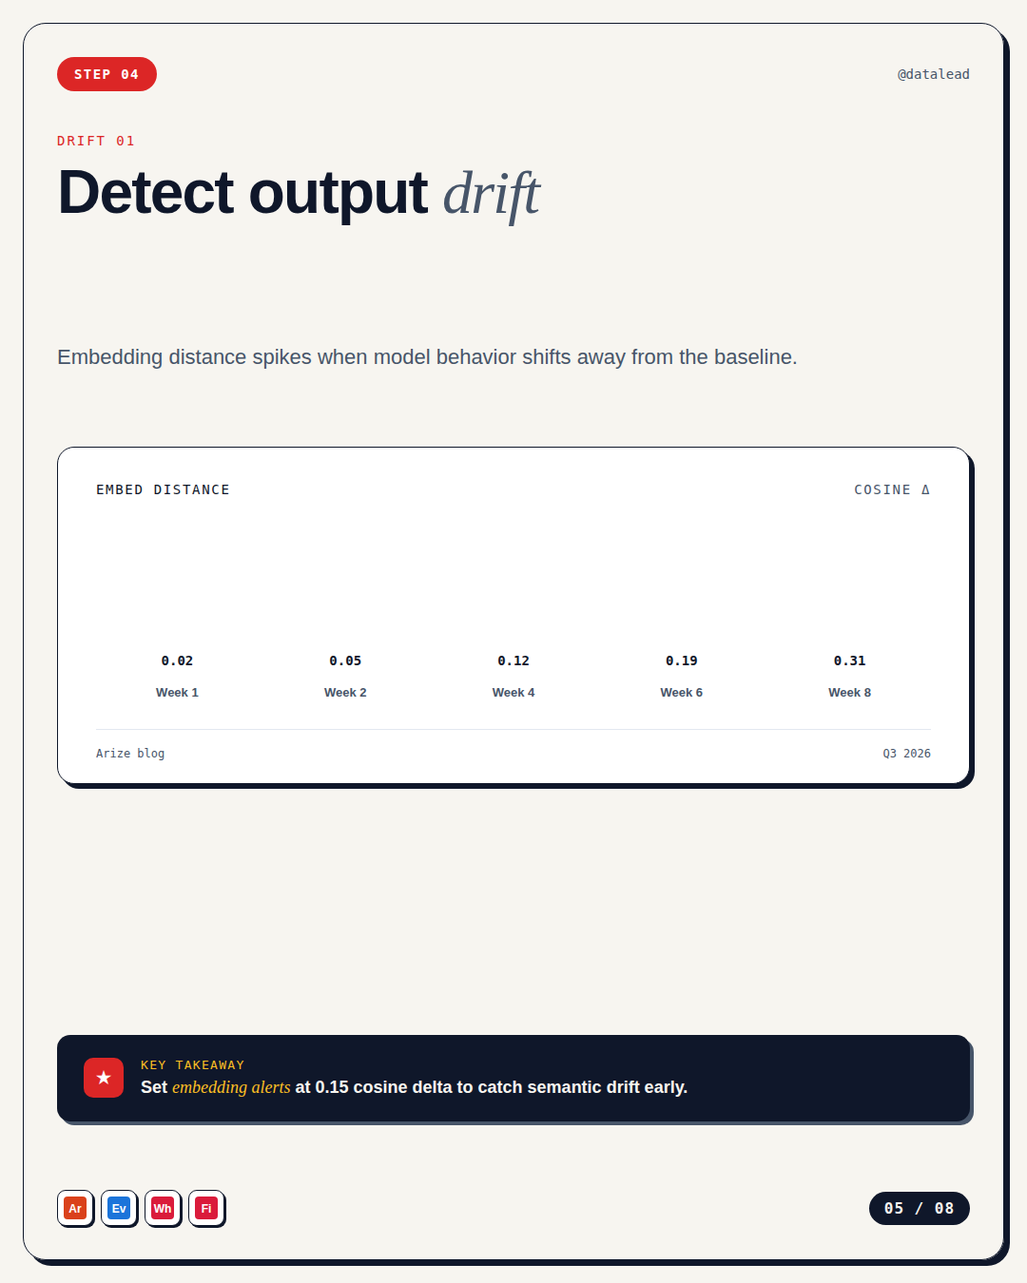
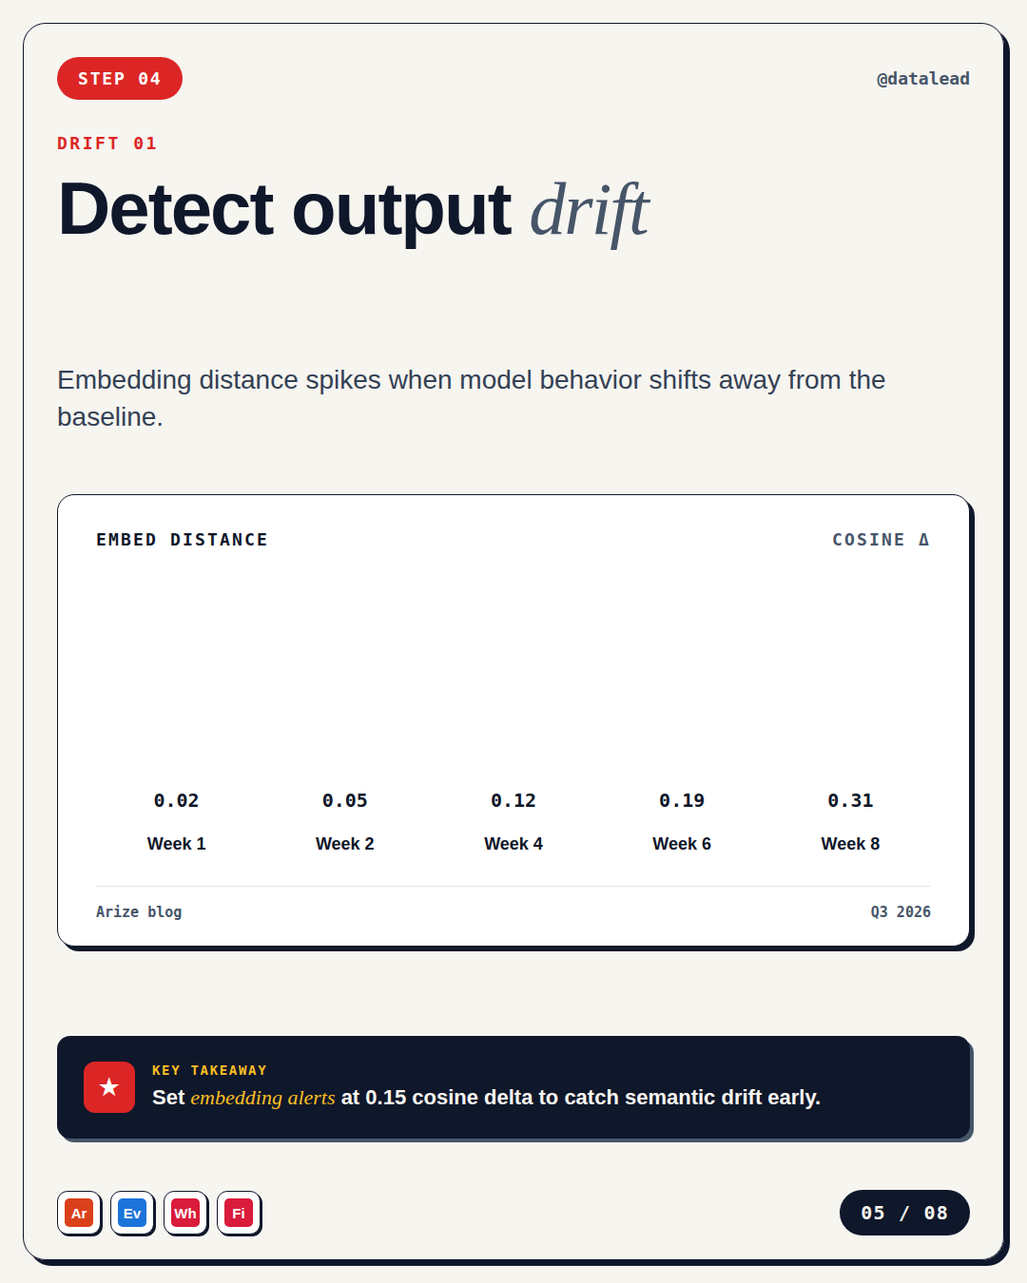
fix(edu-bright): bump body text, tighten dead space, larger pagination
Address quality regression on edu-bright family — body subtitle 22→28px,
title 64→78px, insight text 18→22px, pagination 16→20px in larger pill,
chart bars 200→300px with 18-20px labels, table cells 15→18-20px, flow
nodes 18→22px with min-height. Insight card pinned at top:1090 to close
the ~290px gap between content card and footer.

Re-renders existing 5 carousels via new tools/rerender.mjs (skips Kimi,
re-composes specs against updated templates).

https://claude.ai/code/session_01BDmfQ9NTgAVzWWN8wyMc4W

diff --git a/_extracted/carousel-factory/layouts/body-edu-bright-chart/template.html b/_extracted/carousel-factory/layouts/body-edu-bright-chart/template.html
@@ -6,36 +6,35 @@
 html,body{width:1080px;height:1350px;overflow:hidden;background:#f7f5f0;font-family:"Inter",sans-serif;color:#0f172a;-webkit-font-smoothing:antialiased}
 .outline{position:absolute;inset:24px;border:1.5px solid #0f172a;border-radius:24px;pointer-events:none;z-index:10;box-shadow:6px 6px 0 #0f172a}
 .top-row{position:absolute;top:60px;left:60px;right:60px;display:flex;justify-content:space-between;align-items:center}
-.num-pill{display:inline-flex;align-items:center;gap:10px;padding:10px 18px;background:#dc2626;color:#ffffff;border-radius:50px;font-family:"JetBrains Mono",monospace;font-size:14px;font-weight:700;letter-spacing:0.1em;text-transform:uppercase}
-.handle{font-family:"JetBrains Mono",monospace;font-size:14px;color:#475569;font-weight:500}
-.section-label{position:absolute;top:140px;left:60px;font-family:"JetBrains Mono",monospace;font-size:14px;color:#dc2626;letter-spacing:0.14em;text-transform:uppercase}
-.title{position:absolute;top:170px;left:60px;right:60px;font-size:64px;font-weight:900;line-height:1.0;letter-spacing:-1.8px;color:#0f172a;margin-bottom:12px}
+.num-pill{display:inline-flex;align-items:center;gap:10px;padding:12px 22px;background:#dc2626;color:#ffffff;border-radius:50px;font-family:"JetBrains Mono",monospace;font-size:18px;font-weight:700;letter-spacing:0.1em;text-transform:uppercase}
+.handle{font-family:"JetBrains Mono",monospace;font-size:18px;color:#475569;font-weight:600}
+.section-label{position:absolute;top:140px;left:60px;font-family:"JetBrains Mono",monospace;font-size:18px;color:#dc2626;letter-spacing:0.14em;text-transform:uppercase;font-weight:700}
+.title{position:absolute;top:180px;left:60px;right:60px;font-size:78px;font-weight:900;line-height:1.02;letter-spacing:-2px;color:#0f172a}
 .title em{font-family:"Fraunces",serif;font-style:italic;font-weight:400;color:#475569}
-.subtitle{position:absolute;top:360px;left:60px;right:60px;font-size:22px;color:#475569;line-height:1.45}
-/* Bar chart card */
-.chart-card{position:absolute;top:470px;left:60px;right:60px;padding:36px 40px 24px;background:#ffffff;border:1.5px solid #0f172a;border-radius:18px;box-shadow:5px 5px 0 #0f172a}
-.chart-card .ch-eyebrow{font-family:"JetBrains Mono",monospace;font-size:14px;color:#0f172a;letter-spacing:0.12em;text-transform:uppercase;margin-bottom:14px;display:flex;justify-content:space-between}
-.chart-card .ch-eyebrow .yax{color:#475569;font-weight:500}
-.chart-card .ch-bars{display:flex;align-items:flex-end;justify-content:space-between;gap:18px;height:200px;margin-bottom:30px;padding:0 6px}
-.chart-card .ch-bar-col{flex:1;display:flex;flex-direction:column;align-items:center;gap:8px}
-.chart-card .ch-bar{width:100%;background:#0f172a;border-radius:8px 8px 0 0;position:relative}
+.subtitle{position:absolute;top:380px;left:60px;right:60px;font-size:28px;color:#334155;line-height:1.4;font-weight:500;max-width:920px}
+.chart-card{position:absolute;top:520px;left:60px;right:60px;padding:36px 40px 26px;background:#ffffff;border:1.5px solid #0f172a;border-radius:18px;box-shadow:5px 5px 0 #0f172a}
+.chart-card .ch-eyebrow{font-family:"JetBrains Mono",monospace;font-size:18px;color:#0f172a;letter-spacing:0.12em;text-transform:uppercase;margin-bottom:22px;display:flex;justify-content:space-between;font-weight:700}
+.chart-card .ch-eyebrow .yax{color:#475569;font-weight:600}
+.chart-card .ch-bars{display:flex;align-items:flex-end;justify-content:space-between;gap:20px;height:300px;margin-bottom:32px;padding:24px 6px 0}
+.chart-card .ch-bar-col{flex:1;display:flex;flex-direction:column;align-items:center;gap:14px}
+.chart-card .ch-bar{width:100%;background:#0f172a;border-radius:10px 10px 0 0;position:relative}
 .chart-card .ch-bar.high{background:#dc2626}
 .chart-card .ch-bar.med{background:#fbbf24}
 .chart-card .ch-bar.lo{background:#10b981}
-.chart-card .ch-bar .v{position:absolute;top:-26px;left:0;right:0;text-align:center;font-family:"JetBrains Mono",monospace;font-size:14px;color:#0f172a;font-weight:700}
-.chart-card .ch-bar-lbl{font-size:13px;color:#475569;font-weight:600;text-align:center;line-height:1.2}
-.chart-card .ch-foot{display:flex;justify-content:space-between;font-family:"JetBrains Mono",monospace;font-size:12px;color:#475569;padding-top:18px;border-top:1px solid #e2e8f0}
-.insight-card{position:absolute;bottom:170px;left:60px;right:60px;padding:24px 28px;background:#0f172a;color:#f7f5f0;border-radius:14px;display:flex;align-items:center;gap:18px;box-shadow:4px 4px 0 #475569}
-.insight-card .star{width:42px;height:42px;border-radius:10px;background:#dc2626;display:flex;align-items:center;justify-content:center;color:#fff;font-size:18px;font-weight:900;flex-shrink:0}
+.chart-card .ch-bar .v{position:absolute;top:-34px;left:0;right:0;text-align:center;font-family:"JetBrains Mono",monospace;font-size:20px;color:#0f172a;font-weight:800}
+.chart-card .ch-bar-lbl{font-size:18px;color:#0f172a;font-weight:700;text-align:center;line-height:1.2}
+.chart-card .ch-foot{display:flex;justify-content:space-between;font-family:"JetBrains Mono",monospace;font-size:15px;color:#475569;padding-top:18px;border-top:1px solid #e2e8f0;font-weight:600}
+.insight-card{position:absolute;top:1090px;left:60px;right:60px;padding:24px 28px;background:#0f172a;color:#f7f5f0;border-radius:14px;display:flex;align-items:center;gap:18px;box-shadow:4px 4px 0 #475569;height:108px}
+.insight-card .star{width:54px;height:54px;border-radius:12px;background:#dc2626;display:flex;align-items:center;justify-content:center;color:#fff;font-size:24px;font-weight:900;flex-shrink:0}
 .insight-card .info{flex:1}
-.insight-card .info .ck{font-family:"JetBrains Mono",monospace;font-size:13px;color:#fbbf24;letter-spacing:0.1em;text-transform:uppercase;margin-bottom:4px}
-.insight-card .info .ct{font-size:18px;font-weight:600;line-height:1.35;color:#f7f5f0}
+.insight-card .info .ck{font-family:"JetBrains Mono",monospace;font-size:14px;color:#fbbf24;letter-spacing:0.12em;text-transform:uppercase;margin-bottom:6px;font-weight:700}
+.insight-card .info .ct{font-size:22px;font-weight:600;line-height:1.32;color:#f7f5f0}
 .insight-card .info .ct em{font-family:"Fraunces",serif;font-style:italic;font-weight:400;color:#fbbf24}
-.bottom-row{position:absolute;bottom:60px;left:60px;right:60px;display:flex;justify-content:space-between;align-items:center}
-.bottom-row .chips{display:flex;gap:8px}
-.bottom-row .chips .chip{width:38px;height:38px;border-radius:9px;background:#ffffff;border:1.5px solid #0f172a;display:flex;align-items:center;justify-content:center;padding:6px;box-shadow:2px 2px 0 #0f172a}
+.bottom-row{position:absolute;bottom:50px;left:60px;right:60px;display:flex;justify-content:space-between;align-items:center}
+.bottom-row .chips{display:flex;gap:10px}
+.bottom-row .chips .chip{width:46px;height:46px;border-radius:11px;background:#ffffff;border:1.5px solid #0f172a;display:flex;align-items:center;justify-content:center;padding:7px;box-shadow:2px 2px 0 #0f172a}
 .bottom-row .chips .chip svg{width:100%;height:100%}
-.bottom-row .pg{padding:8px 16px;background:#0f172a;color:#f7f5f0;border-radius:50px;font-family:"JetBrains Mono",monospace;font-size:16px;font-weight:600;letter-spacing:0.06em}
+.bottom-row .pg{padding:12px 22px;background:#0f172a;color:#f7f5f0;border-radius:50px;font-family:"JetBrains Mono",monospace;font-size:20px;font-weight:700;letter-spacing:0.06em}
 </style></head>
 <body>
 <div class="outline"></div>
@@ -46,11 +45,11 @@ html,body{width:1080px;height:1350px;overflow:hidden;background:#f7f5f0;font-fam
 <div class="chart-card">
   <div class="ch-eyebrow"><span>{{chartTitle}}</span><span class="yax">{{chartYAxis}}</span></div>
   <div class="ch-bars">
-    <div class="ch-bar-col"><div class="ch-bar" style="height:30%"><div class="v">{{bar1V}}</div></div><div class="ch-bar-lbl">{{bar1L}}</div></div>
-    <div class="ch-bar-col"><div class="ch-bar lo" style="height:50%"><div class="v">{{bar2V}}</div></div><div class="ch-bar-lbl">{{bar2L}}</div></div>
-    <div class="ch-bar-col"><div class="ch-bar med" style="height:72%"><div class="v">{{bar3V}}</div></div><div class="ch-bar-lbl">{{bar3L}}</div></div>
-    <div class="ch-bar-col"><div class="ch-bar high" style="height:92%"><div class="v">{{bar4V}}</div></div><div class="ch-bar-lbl">{{bar4L}}</div></div>
-    <div class="ch-bar-col"><div class="ch-bar" style="height:42%"><div class="v">{{bar5V}}</div></div><div class="ch-bar-lbl">{{bar5L}}</div></div>
+    <div class="ch-bar-col"><div class="ch-bar" style="height:38%"><div class="v">{{bar1V}}</div></div><div class="ch-bar-lbl">{{bar1L}}</div></div>
+    <div class="ch-bar-col"><div class="ch-bar lo" style="height:56%"><div class="v">{{bar2V}}</div></div><div class="ch-bar-lbl">{{bar2L}}</div></div>
+    <div class="ch-bar-col"><div class="ch-bar med" style="height:74%"><div class="v">{{bar3V}}</div></div><div class="ch-bar-lbl">{{bar3L}}</div></div>
+    <div class="ch-bar-col"><div class="ch-bar high" style="height:94%"><div class="v">{{bar4V}}</div></div><div class="ch-bar-lbl">{{bar4L}}</div></div>
+    <div class="ch-bar-col"><div class="ch-bar" style="height:48%"><div class="v">{{bar5V}}</div></div><div class="ch-bar-lbl">{{bar5L}}</div></div>
   </div>
   <div class="ch-foot"><span>{{chartSource}}</span><span>{{chartPeriod}}</span></div>
 </div>

diff --git a/_extracted/carousel-factory/layouts/body-edu-bright-flow/template.html b/_extracted/carousel-factory/layouts/body-edu-bright-flow/template.html
@@ -6,44 +6,43 @@
 html,body{width:1080px;height:1350px;overflow:hidden;background:#f7f5f0;font-family:"Inter",sans-serif;color:#0f172a;-webkit-font-smoothing:antialiased}
 .outline{position:absolute;inset:24px;border:1.5px solid #0f172a;border-radius:24px;pointer-events:none;z-index:10;box-shadow:6px 6px 0 #0f172a}
 .top-row{position:absolute;top:60px;left:60px;right:60px;display:flex;justify-content:space-between;align-items:center}
-.num-pill{display:inline-flex;align-items:center;gap:10px;padding:10px 18px;background:#dc2626;color:#ffffff;border-radius:50px;font-family:"JetBrains Mono",monospace;font-size:14px;font-weight:700;letter-spacing:0.1em;text-transform:uppercase}
-.handle{font-family:"JetBrains Mono",monospace;font-size:14px;color:#475569;font-weight:500}
-.section-label{position:absolute;top:140px;left:60px;font-family:"JetBrains Mono",monospace;font-size:14px;color:#dc2626;letter-spacing:0.14em;text-transform:uppercase}
-.title{position:absolute;top:170px;left:60px;right:60px;font-size:64px;font-weight:900;line-height:1.0;letter-spacing:-1.8px;color:#0f172a;margin-bottom:12px}
+.num-pill{display:inline-flex;align-items:center;gap:10px;padding:12px 22px;background:#dc2626;color:#ffffff;border-radius:50px;font-family:"JetBrains Mono",monospace;font-size:18px;font-weight:700;letter-spacing:0.1em;text-transform:uppercase}
+.handle{font-family:"JetBrains Mono",monospace;font-size:18px;color:#475569;font-weight:600}
+.section-label{position:absolute;top:140px;left:60px;font-family:"JetBrains Mono",monospace;font-size:18px;color:#dc2626;letter-spacing:0.14em;text-transform:uppercase;font-weight:700}
+.title{position:absolute;top:180px;left:60px;right:60px;font-size:78px;font-weight:900;line-height:1.02;letter-spacing:-2px;color:#0f172a}
 .title em{font-family:"Fraunces",serif;font-style:italic;font-weight:400;color:#475569}
-.subtitle{position:absolute;top:360px;left:60px;right:60px;font-size:22px;color:#475569;line-height:1.45}
-/* Architecture flow diagram */
-.flow-card{position:absolute;top:470px;left:60px;right:60px;padding:38px 36px;background:#ffffff;border:1.5px solid #0f172a;border-radius:18px;box-shadow:5px 5px 0 #0f172a}
-.flow-card .fc-eyebrow{font-family:"JetBrains Mono",monospace;font-size:14px;color:#0f172a;letter-spacing:0.12em;text-transform:uppercase;margin-bottom:24px}
-.flow-row{display:flex;align-items:center;justify-content:space-between;gap:0;margin-bottom:24px}
-.node{flex:1;display:flex;flex-direction:column;align-items:center;text-align:center;padding:16px 14px;background:#f7f5f0;border:1.5px solid #0f172a;border-radius:14px;box-shadow:3px 3px 0 #0f172a}
+.subtitle{position:absolute;top:380px;left:60px;right:60px;font-size:28px;color:#334155;line-height:1.4;font-weight:500;max-width:920px}
+.flow-card{position:absolute;top:520px;left:60px;right:60px;padding:36px 32px 32px;background:#ffffff;border:1.5px solid #0f172a;border-radius:18px;box-shadow:5px 5px 0 #0f172a}
+.flow-card .fc-eyebrow{font-family:"JetBrains Mono",monospace;font-size:18px;color:#0f172a;letter-spacing:0.12em;text-transform:uppercase;margin-bottom:28px;font-weight:700}
+.flow-row{display:flex;align-items:stretch;justify-content:space-between;gap:0;margin-bottom:26px}
+.node{flex:1;display:flex;flex-direction:column;align-items:center;text-align:center;padding:22px 16px;background:#f7f5f0;border:1.5px solid #0f172a;border-radius:14px;box-shadow:3px 3px 0 #0f172a;min-height:200px;justify-content:center}
 .node.alt{background:#dc2626;color:#ffffff}
 .node.alt .nm{color:#ffffff}
 .node.alt .ns{color:#fff5e0}
 .node.end{background:#0f172a;color:#ffffff}
 .node.end .nm{color:#ffffff}
 .node.end .ns{color:#fbbf24}
-.node .ic{width:42px;height:42px;border-radius:10px;background:#0f172a;color:#fbbf24;display:flex;align-items:center;justify-content:center;font-size:16px;font-weight:900;margin-bottom:10px}
+.node .ic{width:56px;height:56px;border-radius:12px;background:#0f172a;color:#fbbf24;display:flex;align-items:center;justify-content:center;font-size:22px;font-weight:900;margin-bottom:14px}
 .node.alt .ic{background:#ffffff;color:#dc2626}
 .node.end .ic{background:#dc2626;color:#ffffff}
-.node .nm{font-size:18px;font-weight:800;color:#0f172a;line-height:1.1;margin-bottom:4px}
-.node .ns{font-size:12px;font-weight:500;color:#475569;line-height:1.3;letter-spacing:0.04em;text-transform:uppercase}
-.arrow{font-size:24px;color:#dc2626;font-weight:900;margin:0 -6px}
-.flow-detail{padding:20px 24px;background:#0f172a;border-radius:12px;color:#f7f5f0;display:flex;align-items:center;gap:16px}
-.flow-detail .ck{width:36px;height:36px;border-radius:9px;background:#fbbf24;color:#0f172a;display:flex;align-items:center;justify-content:center;font-size:16px;font-weight:900;flex-shrink:0}
-.flow-detail .ft{font-size:17px;font-weight:600;line-height:1.35;color:#f7f5f0;flex:1}
+.node .nm{font-size:22px;font-weight:800;color:#0f172a;line-height:1.1;margin-bottom:8px}
+.node .ns{font-size:14px;font-weight:600;color:#475569;line-height:1.3;letter-spacing:0.04em;text-transform:uppercase}
+.arrow{font-size:32px;color:#dc2626;font-weight:900;margin:0 -6px;display:flex;align-items:center}
+.flow-detail{padding:22px 26px;background:#0f172a;border-radius:12px;color:#f7f5f0;display:flex;align-items:center;gap:16px}
+.flow-detail .ck{width:48px;height:48px;border-radius:10px;background:#fbbf24;color:#0f172a;display:flex;align-items:center;justify-content:center;font-size:20px;font-weight:900;flex-shrink:0}
+.flow-detail .ft{font-size:20px;font-weight:600;line-height:1.35;color:#f7f5f0;flex:1}
 .flow-detail .ft em{font-family:"Fraunces",serif;font-style:italic;font-weight:400;color:#fbbf24}
-.flow-detail .meta{font-family:"JetBrains Mono",monospace;font-size:12px;color:#94a3b8;letter-spacing:0.08em}
-.insight-card{position:absolute;bottom:170px;left:60px;right:60px;padding:22px 28px;background:#fbbf24;color:#0f172a;border:1.5px solid #0f172a;border-radius:14px;display:flex;align-items:center;gap:18px;box-shadow:4px 4px 0 #0f172a}
-.insight-card .star{width:42px;height:42px;border-radius:10px;background:#0f172a;display:flex;align-items:center;justify-content:center;color:#fbbf24;font-size:18px;font-weight:900;flex-shrink:0}
+.flow-detail .meta{font-family:"JetBrains Mono",monospace;font-size:14px;color:#94a3b8;letter-spacing:0.08em;font-weight:600}
+.insight-card{position:absolute;top:1090px;left:60px;right:60px;padding:24px 28px;background:#fbbf24;color:#0f172a;border:1.5px solid #0f172a;border-radius:14px;display:flex;align-items:center;gap:18px;box-shadow:4px 4px 0 #0f172a;height:108px}
+.insight-card .star{width:54px;height:54px;border-radius:12px;background:#0f172a;display:flex;align-items:center;justify-content:center;color:#fbbf24;font-size:24px;font-weight:900;flex-shrink:0}
 .insight-card .info{flex:1}
-.insight-card .info .ck{font-family:"JetBrains Mono",monospace;font-size:13px;color:#7c2d12;letter-spacing:0.1em;text-transform:uppercase;margin-bottom:4px}
-.insight-card .info .ct{font-size:18px;font-weight:700;line-height:1.35;color:#0f172a}
-.bottom-row{position:absolute;bottom:60px;left:60px;right:60px;display:flex;justify-content:space-between;align-items:center}
-.bottom-row .chips{display:flex;gap:8px}
-.bottom-row .chips .chip{width:38px;height:38px;border-radius:9px;background:#ffffff;border:1.5px solid #0f172a;display:flex;align-items:center;justify-content:center;padding:6px;box-shadow:2px 2px 0 #0f172a}
+.insight-card .info .ck{font-family:"JetBrains Mono",monospace;font-size:14px;color:#7c2d12;letter-spacing:0.12em;text-transform:uppercase;margin-bottom:6px;font-weight:700}
+.insight-card .info .ct{font-size:22px;font-weight:700;line-height:1.32;color:#0f172a}
+.bottom-row{position:absolute;bottom:50px;left:60px;right:60px;display:flex;justify-content:space-between;align-items:center}
+.bottom-row .chips{display:flex;gap:10px}
+.bottom-row .chips .chip{width:46px;height:46px;border-radius:11px;background:#ffffff;border:1.5px solid #0f172a;display:flex;align-items:center;justify-content:center;padding:7px;box-shadow:2px 2px 0 #0f172a}
 .bottom-row .chips .chip svg{width:100%;height:100%}
-.bottom-row .pg{padding:8px 16px;background:#0f172a;color:#f7f5f0;border-radius:50px;font-family:"JetBrains Mono",monospace;font-size:16px;font-weight:600;letter-spacing:0.06em}
+.bottom-row .pg{padding:12px 22px;background:#0f172a;color:#f7f5f0;border-radius:50px;font-family:"JetBrains Mono",monospace;font-size:20px;font-weight:700;letter-spacing:0.06em}
 </style></head>
 <body>
 <div class="outline"></div>

diff --git a/_extracted/carousel-factory/layouts/body-edu-bright-table/template.html b/_extracted/carousel-factory/layouts/body-edu-bright-table/template.html
@@ -6,38 +6,38 @@
 html,body{width:1080px;height:1350px;overflow:hidden;background:#f7f5f0;font-family:"Inter",sans-serif;color:#0f172a;-webkit-font-smoothing:antialiased}
 .outline{position:absolute;inset:24px;border:1.5px solid #0f172a;border-radius:24px;pointer-events:none;z-index:10;box-shadow:6px 6px 0 #0f172a}
 .top-row{position:absolute;top:60px;left:60px;right:60px;display:flex;justify-content:space-between;align-items:center}
-.num-pill{display:inline-flex;align-items:center;gap:10px;padding:10px 18px;background:#dc2626;color:#ffffff;border-radius:50px;font-family:"JetBrains Mono",monospace;font-size:14px;font-weight:700;letter-spacing:0.1em;text-transform:uppercase}
-.handle{font-family:"JetBrains Mono",monospace;font-size:14px;color:#475569;font-weight:500}
-.section-label{position:absolute;top:140px;left:60px;font-family:"JetBrains Mono",monospace;font-size:14px;color:#dc2626;letter-spacing:0.14em;text-transform:uppercase}
-.title{position:absolute;top:170px;left:60px;right:60px;font-size:64px;font-weight:900;line-height:1.0;letter-spacing:-1.8px;color:#0f172a;margin-bottom:12px}
+.num-pill{display:inline-flex;align-items:center;gap:10px;padding:12px 22px;background:#dc2626;color:#ffffff;border-radius:50px;font-family:"JetBrains Mono",monospace;font-size:18px;font-weight:700;letter-spacing:0.1em;text-transform:uppercase}
+.handle{font-family:"JetBrains Mono",monospace;font-size:18px;color:#475569;font-weight:600}
+.section-label{position:absolute;top:140px;left:60px;font-family:"JetBrains Mono",monospace;font-size:18px;color:#dc2626;letter-spacing:0.14em;text-transform:uppercase;font-weight:700}
+.title{position:absolute;top:180px;left:60px;right:60px;font-size:78px;font-weight:900;line-height:1.02;letter-spacing:-2px;color:#0f172a}
 .title em{font-family:"Fraunces",serif;font-style:italic;font-weight:400;color:#475569}
-.subtitle{position:absolute;top:360px;left:60px;right:60px;font-size:22px;color:#475569;line-height:1.45}
-.table-card{position:absolute;top:470px;left:60px;right:60px;background:#ffffff;border:1.5px solid #0f172a;border-radius:18px;box-shadow:5px 5px 0 #0f172a;overflow:hidden}
-.tbl-head{display:grid;grid-template-columns:1.4fr 1fr 1fr 0.8fr;align-items:center;padding:18px 24px;background:#0f172a;color:#f7f5f0;font-family:"JetBrains Mono",monospace;font-size:13px;letter-spacing:0.1em;text-transform:uppercase;font-weight:700}
+.subtitle{position:absolute;top:380px;left:60px;right:60px;font-size:28px;color:#334155;line-height:1.4;font-weight:500;max-width:920px}
+.table-card{position:absolute;top:520px;left:60px;right:60px;background:#ffffff;border:1.5px solid #0f172a;border-radius:18px;box-shadow:5px 5px 0 #0f172a;overflow:hidden}
+.tbl-head{display:grid;grid-template-columns:1.5fr 1fr 1fr 0.9fr;align-items:center;padding:20px 28px;background:#0f172a;color:#f7f5f0;font-family:"JetBrains Mono",monospace;font-size:16px;letter-spacing:0.1em;text-transform:uppercase;font-weight:700}
 .tbl-head .h-acc{color:#fbbf24}
-.tbl-row{display:grid;grid-template-columns:1.4fr 1fr 1fr 0.8fr;align-items:center;padding:18px 24px;border-bottom:1px solid #e2e8f0;font-size:17px;color:#0f172a}
+.tbl-row{display:grid;grid-template-columns:1.5fr 1fr 1fr 0.9fr;align-items:center;padding:22px 28px;border-bottom:1px solid #e2e8f0;color:#0f172a}
 .tbl-row:last-child{border-bottom:none}
-.tbl-row .opt{display:flex;align-items:center;gap:12px;font-weight:700}
-.tbl-row .opt .ic{width:32px;height:32px;border-radius:7px;background:#f7f5f0;border:1px solid #0f172a;display:flex;align-items:center;justify-content:center;padding:4px;flex-shrink:0}
+.tbl-row .opt{display:flex;align-items:center;gap:14px;font-weight:800;font-size:20px}
+.tbl-row .opt .ic{width:42px;height:42px;border-radius:9px;background:#f7f5f0;border:1.5px solid #0f172a;display:flex;align-items:center;justify-content:center;padding:6px;flex-shrink:0}
 .tbl-row .opt .ic svg{width:100%;height:100%}
-.tbl-row .cell{font-size:15px;color:#475569;font-weight:500}
-.tbl-row .stat{font-family:"JetBrains Mono",monospace;font-weight:700;color:#dc2626;font-size:16px}
+.tbl-row .cell{font-size:18px;color:#334155;font-weight:600}
+.tbl-row .stat{font-family:"JetBrains Mono",monospace;font-weight:800;color:#dc2626;font-size:20px}
 .tbl-row .stat.lo{color:#475569}
 .tbl-row.winner{background:#fef3c7}
 .tbl-row.winner .opt{color:#0f172a}
 .tbl-row.winner .stat{color:#0f172a}
-.tbl-row.winner .opt::after{content:"🏆";margin-left:auto;margin-right:0;font-size:14px}
-.insight-card{position:absolute;bottom:170px;left:60px;right:60px;padding:22px 28px;background:#0f172a;color:#f7f5f0;border-radius:14px;display:flex;align-items:center;gap:18px;box-shadow:4px 4px 0 #475569}
-.insight-card .star{width:42px;height:42px;border-radius:10px;background:#dc2626;display:flex;align-items:center;justify-content:center;color:#fff;font-size:18px;font-weight:900;flex-shrink:0}
+.tbl-row.winner .opt::after{content:"🏆";margin-left:auto;margin-right:0;font-size:18px}
+.insight-card{position:absolute;top:1090px;left:60px;right:60px;padding:24px 28px;background:#0f172a;color:#f7f5f0;border-radius:14px;display:flex;align-items:center;gap:18px;box-shadow:4px 4px 0 #475569;height:108px}
+.insight-card .star{width:54px;height:54px;border-radius:12px;background:#dc2626;display:flex;align-items:center;justify-content:center;color:#fff;font-size:24px;font-weight:900;flex-shrink:0}
 .insight-card .info{flex:1}
-.insight-card .info .ck{font-family:"JetBrains Mono",monospace;font-size:13px;color:#fbbf24;letter-spacing:0.1em;text-transform:uppercase;margin-bottom:4px}
-.insight-card .info .ct{font-size:18px;font-weight:600;line-height:1.35;color:#f7f5f0}
+.insight-card .info .ck{font-family:"JetBrains Mono",monospace;font-size:14px;color:#fbbf24;letter-spacing:0.12em;text-transform:uppercase;margin-bottom:6px;font-weight:700}
+.insight-card .info .ct{font-size:22px;font-weight:600;line-height:1.32;color:#f7f5f0}
 .insight-card .info .ct em{font-family:"Fraunces",serif;font-style:italic;font-weight:400;color:#fbbf24}
-.bottom-row{position:absolute;bottom:60px;left:60px;right:60px;display:flex;justify-content:space-between;align-items:center}
-.bottom-row .chips{display:flex;gap:8px}
-.bottom-row .chips .chip{width:38px;height:38px;border-radius:9px;background:#ffffff;border:1.5px solid #0f172a;display:flex;align-items:center;justify-content:center;padding:6px;box-shadow:2px 2px 0 #0f172a}
+.bottom-row{position:absolute;bottom:50px;left:60px;right:60px;display:flex;justify-content:space-between;align-items:center}
+.bottom-row .chips{display:flex;gap:10px}
+.bottom-row .chips .chip{width:46px;height:46px;border-radius:11px;background:#ffffff;border:1.5px solid #0f172a;display:flex;align-items:center;justify-content:center;padding:7px;box-shadow:2px 2px 0 #0f172a}
 .bottom-row .chips .chip svg{width:100%;height:100%}
-.bottom-row .pg{padding:8px 16px;background:#0f172a;color:#f7f5f0;border-radius:50px;font-family:"JetBrains Mono",monospace;font-size:16px;font-weight:600;letter-spacing:0.06em}
+.bottom-row .pg{padding:12px 22px;background:#0f172a;color:#f7f5f0;border-radius:50px;font-family:"JetBrains Mono",monospace;font-size:20px;font-weight:700;letter-spacing:0.06em}
 </style></head>
 <body>
 <div class="outline"></div>
